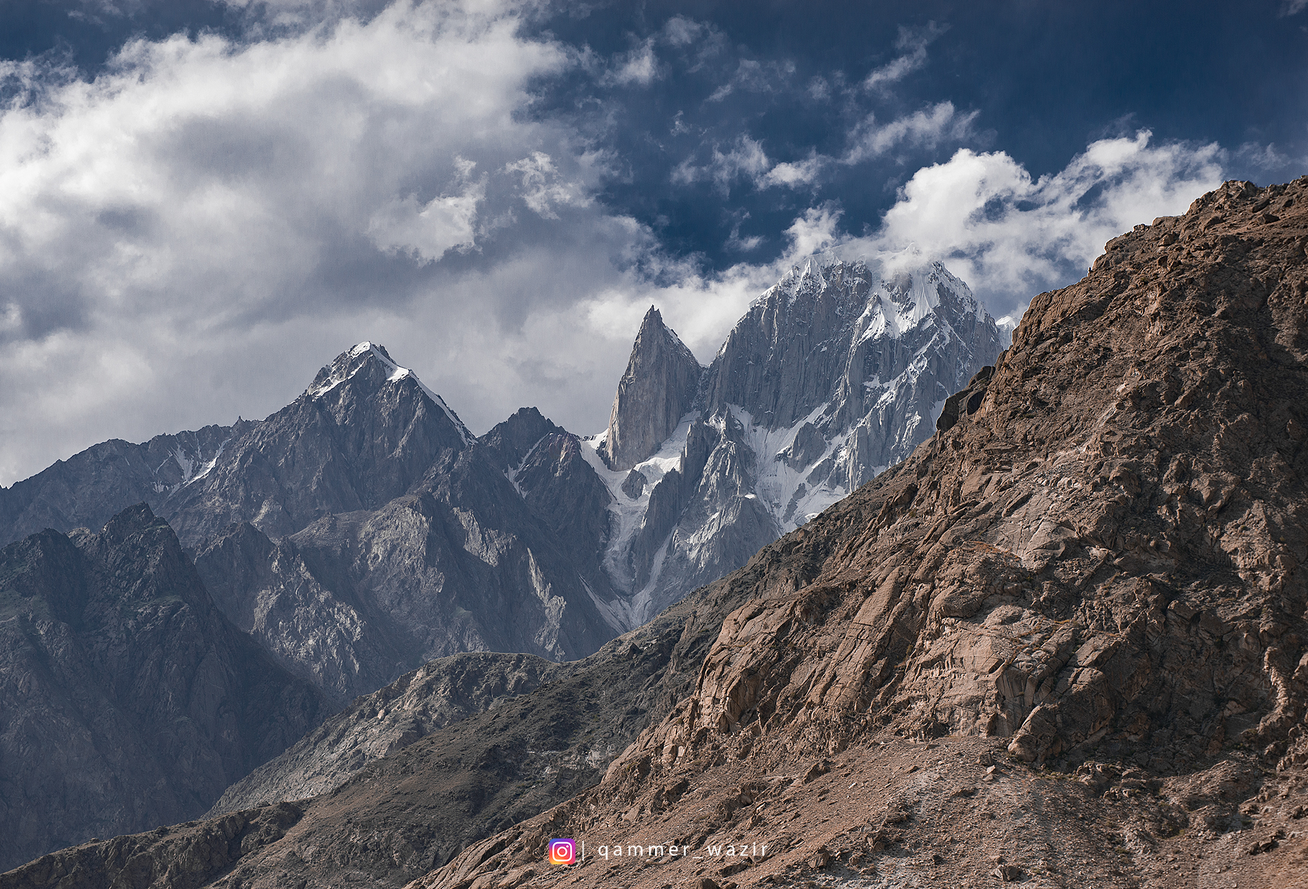
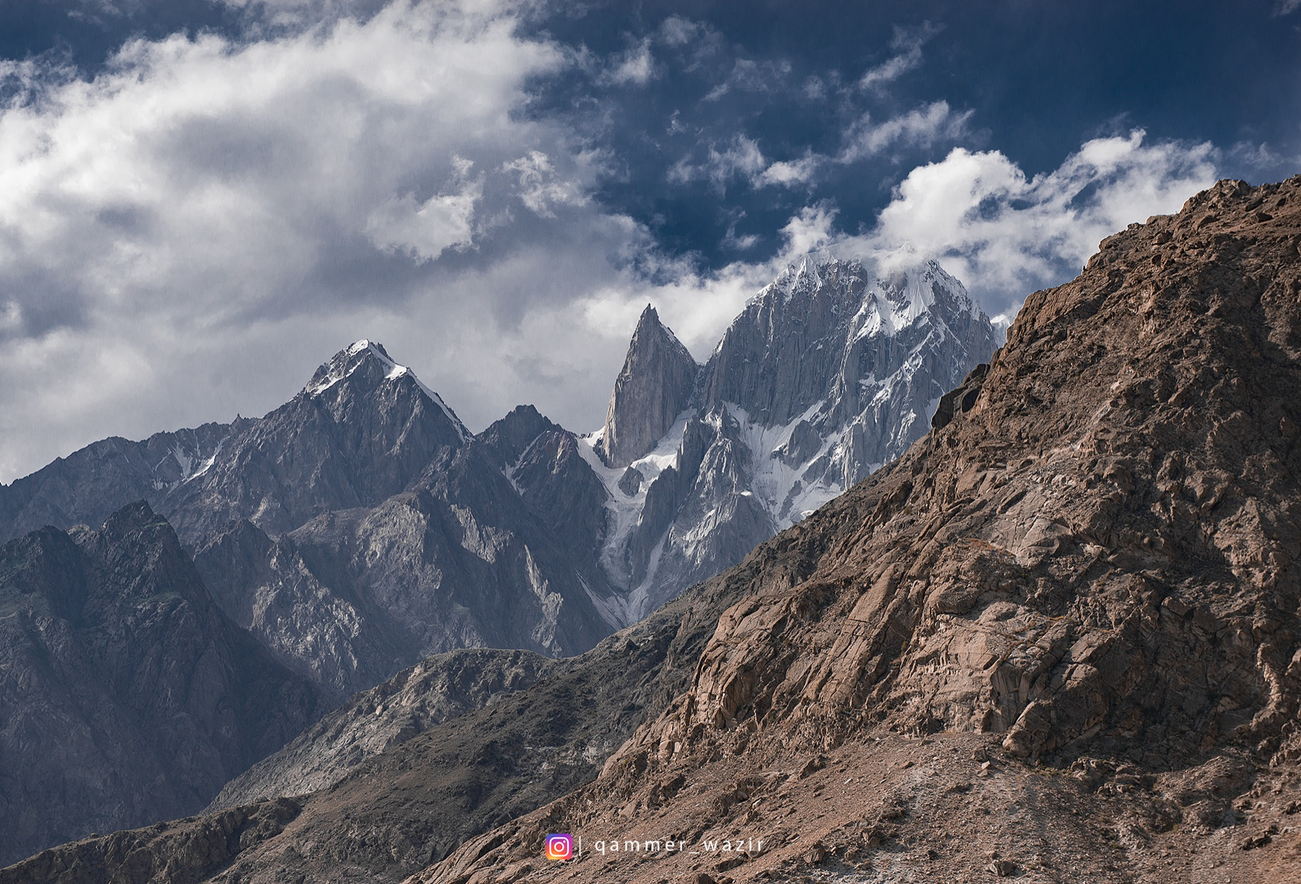
Fix slow image loading — compress sources and enable Next.js optimization
- Resize all images to max 2000px via sips (26MB→883KB, 25MB→771KB, etc.)
- Remove unoptimized flag from all Image components so Next.js serves
  WebP at the correct size for each viewport
- Add sizes hints on every Image for accurate srcset generation

diff --git a/app/tours/[slug]/page.tsx b/app/tours/[slug]/page.tsx
@@ -44,7 +44,7 @@ export default function TourPage({ params }: { params: Promise<{ slug: string }>
       {/* ── HERO — full-bleed, no text overlay ── */}
       <section ref={heroRef} className="relative pt-[72px] h-[82vh] min-h-[560px] overflow-hidden">
         <motion.div style={{ y: heroY }} className="absolute inset-0 scale-110 will-change-transform">
-          <Image src={tour.heroImage} alt={tour.name} fill className="object-cover" unoptimized priority />
+          <Image src={tour.heroImage} alt={tour.name} fill className="object-cover" priority sizes="100vw" />
           <div className="absolute inset-0 bg-gradient-to-b from-black/10 via-transparent to-black/50" />
         </motion.div>
 
@@ -97,7 +97,7 @@ export default function TourPage({ params }: { params: Promise<{ slug: string }>
             {/* Gallery row */}
             <div className="mb-14">
               <div className="relative overflow-hidden mb-2" style={{ aspectRatio:"16/9" }}>
-                <Image src={tour.galleryImages[imgIdx]} alt={`Gallery ${imgIdx + 1}`} fill className="object-cover transition-opacity duration-500" unoptimized />
+                <Image src={tour.galleryImages[imgIdx]} alt={`Gallery ${imgIdx + 1}`} fill className="object-cover transition-opacity duration-500" sizes="(max-width: 768px) 100vw, 66vw" />
               </div>
               <div className="flex gap-2">
                 {tour.galleryImages.map((src, i) => (
@@ -105,7 +105,7 @@ export default function TourPage({ params }: { params: Promise<{ slug: string }>
                     className={`relative overflow-hidden flex-1 transition-all duration-300 ${i===imgIdx ? "ring-2 ring-[#C8903A]" : "opacity-60 hover:opacity-90"}`}
                     style={{ aspectRatio:"4/3" }}
                   >
-                    <Image src={src} alt="" fill className="object-cover" unoptimized />
+                    <Image src={src} alt="" fill className="object-cover" sizes="25vw" />
                   </button>
                 ))}
               </div>
@@ -149,7 +149,7 @@ export default function TourPage({ params }: { params: Promise<{ slug: string }>
                     className="group border border-[#e8e4de] overflow-hidden hover:border-[#C8903A]/40 transition-colors duration-300"
                   >
                     <div className="relative overflow-hidden" style={{ aspectRatio:"16/10" }}>
-                      <Image src={hotel.image} alt={hotel.name} fill className="object-cover transition-transform duration-500 group-hover:scale-[1.04]" unoptimized />
+                      <Image src={hotel.image} alt={hotel.name} fill className="object-cover transition-transform duration-500 group-hover:scale-[1.04]" sizes="(max-width: 768px) 100vw, 33vw" />
                     </div>
                     <div className="p-5">
                       <h4 className="text-[18px] font-light text-[#111] mb-2" style={{ fontFamily:"var(--font-cormorant),Georgia,serif" }}>{hotel.name}</h4>
@@ -248,7 +248,7 @@ export default function TourPage({ params }: { params: Promise<{ slug: string }>
                 >
                   <Link href={`/tours/${t.slug}`} className="group block">
                     <div className="relative overflow-hidden mb-4" style={{ aspectRatio:"4/3" }}>
-                      <Image src={t.heroImage} alt={t.name} fill className="object-cover transition-transform duration-600 group-hover:scale-[1.04]" unoptimized />
+                      <Image src={t.heroImage} alt={t.name} fill className="object-cover transition-transform duration-600 group-hover:scale-[1.04]" sizes="(max-width: 768px) 100vw, 33vw" />
                       <div className="absolute inset-0 bg-black/0 group-hover:bg-black/10 transition-colors duration-400"/>
                     </div>
                     <p className="text-[10px] tracking-[0.3em] uppercase text-[#C8903A] mb-1" style={{ fontFamily:"var(--font-inter),sans-serif" }}>{t.region}</p>

diff --git a/app/tours/page.tsx b/app/tours/page.tsx
@@ -30,7 +30,7 @@ export default function ToursPage() {
 
       {/* Hero banner */}
       <div className="relative pt-[72px] h-[52vh] min-h-[380px] overflow-hidden">
-        <Image src="https://aurigaventure.com/wp-content/uploads/2014/10/DJI_0122-scaled.jpg" alt="Destinations" fill className="object-cover" unoptimized priority />
+        <Image src="https://aurigaventure.com/wp-content/uploads/2014/10/DJI_0122-scaled.jpg" alt="Destinations" fill className="object-cover" priority sizes="100vw" />
         <div className="absolute inset-0 bg-black/45" />
         <div className="absolute inset-0 flex flex-col items-center justify-center text-center px-6">
           <motion.p initial={{ opacity:0, y:14 }} animate={{ opacity:1, y:0 }} transition={{ delay:0.2, duration:0.7 }}
@@ -67,7 +67,7 @@ export default function ToursPage() {
               <Link href={`/tours/${tour.slug}`} className="group block">
                 {/* Image */}
                 <div className="relative overflow-hidden mb-4" style={{ aspectRatio:"4/3" }}>
-                  <Image src={tour.heroImage} alt={tour.name} fill className="object-cover transition-transform duration-700 group-hover:scale-[1.05] will-change-transform" unoptimized />
+                  <Image src={tour.heroImage} alt={tour.name} fill className="object-cover transition-transform duration-700 group-hover:scale-[1.05] will-change-transform" sizes="(max-width: 768px) 100vw, (max-width: 1200px) 50vw, 33vw" />
                   <div className="absolute inset-0 bg-black/0 group-hover:bg-black/10 transition-colors duration-500" />
                   {/* Nights */}
                   <div className="absolute top-4 right-4 bg-black/50 backdrop-blur-sm px-3 py-1.5">

diff --git a/components/Destinations.tsx b/components/Destinations.tsx
@@ -73,7 +73,7 @@ function DestCard({ dest, index }: { dest: typeof destinations[0]; index: number
           alt={dest.name}
           fill
           className="object-cover transition-transform duration-700 ease-out group-hover:scale-110 will-change-transform"
-          unoptimized
+          sizes="(max-width: 768px) 50vw, 20vw"
           loading="lazy"
         />
 
